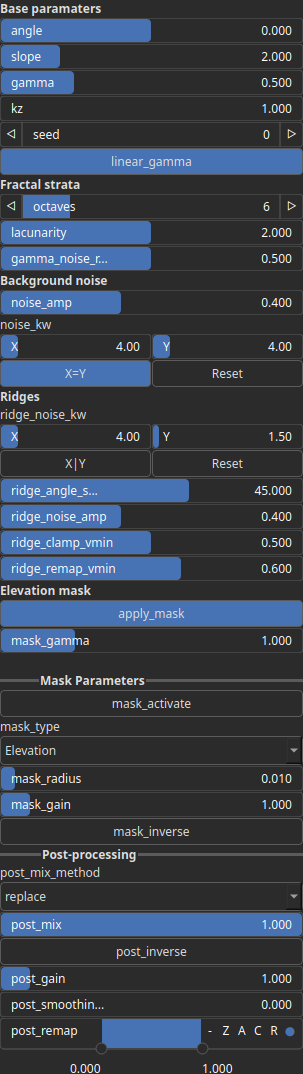
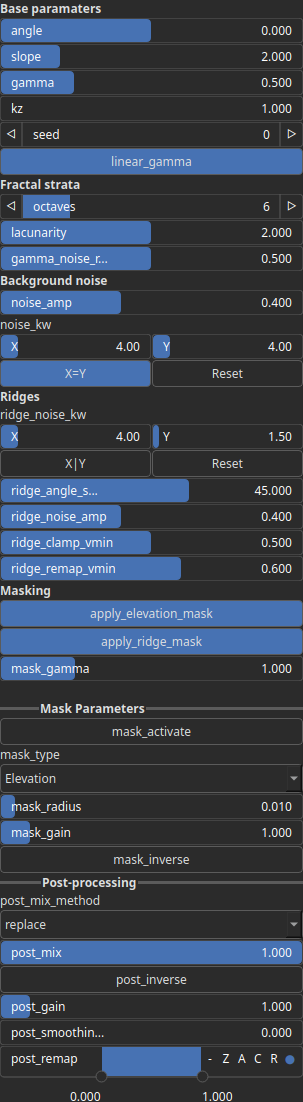
Update Strata node, separate mask switch for elevation and ridge

diff --git a/Hesiod/src/model/nodes/nodes_function/strata.cpp b/Hesiod/src/model/nodes/nodes_function/strata.cpp
@@ -48,7 +48,8 @@ void setup_strata_node(BaseNode *p_node)
   ADD_ATTR(FloatAttribute, "ridge_noise_amp", 0.4f, 0.f, 1.f);
   ADD_ATTR(FloatAttribute, "ridge_clamp_vmin", 0.5f, 0.f, 1.f);
   ADD_ATTR(FloatAttribute, "ridge_remap_vmin", 0.6f, 0.f, 1.f);
-  ADD_ATTR(BoolAttribute, "apply_mask", true);
+  ADD_ATTR(BoolAttribute, "apply_elevation_mask", true);
+  ADD_ATTR(BoolAttribute, "apply_ridge_mask", true);
   ADD_ATTR(FloatAttribute, "mask_gamma", 1.f, 0.01f, 4.f);
 
   // attribute(s) order
@@ -72,8 +73,9 @@ void setup_strata_node(BaseNode *p_node)
                                 "ridge_noise_amp",
                                 "ridge_clamp_vmin",
                                 "ridge_remap_vmin",
-                                "_TEXT_Elevation mask",
-                                "apply_mask",
+                                "_TEXT_Masking",
+                                "apply_elevation_mask",
+                                "apply_ridge_mask",
                                 "mask_gamma"});
 
   setup_pre_process_mask_attributes(p_node);
@@ -130,7 +132,8 @@ void compute_strata_node(BaseNode *p_node)
                             GET("ridge_noise_amp", FloatAttribute),
                             GET("ridge_clamp_vmin", FloatAttribute),
                             GET("ridge_remap_vmin", FloatAttribute),
-                            GET("apply_mask", BoolAttribute),
+                            GET("apply_elevation_mask", BoolAttribute),
+                            GET("apply_ridge_mask", BoolAttribute),
                             GET("mask_gamma", FloatAttribute),
                             pa_mask,
                             bbox);

diff --git a/docs/node_reference/nodes/Strata.md b/docs/node_reference/nodes/Strata.md
@@ -32,7 +32,8 @@ Erosion/Stratify
 |Name|Type|Description|
 | :--- | :--- | :--- |
 |angle|Float|No description|
-|apply_mask|Bool|No description|
+|apply_elevation_mask|Bool|No description|
+|apply_ridge_mask|Bool|No description|
 |gamma|Float|No description|
 |gamma_noise_ratio|Float|No description|
 |kz|Float|No description|
